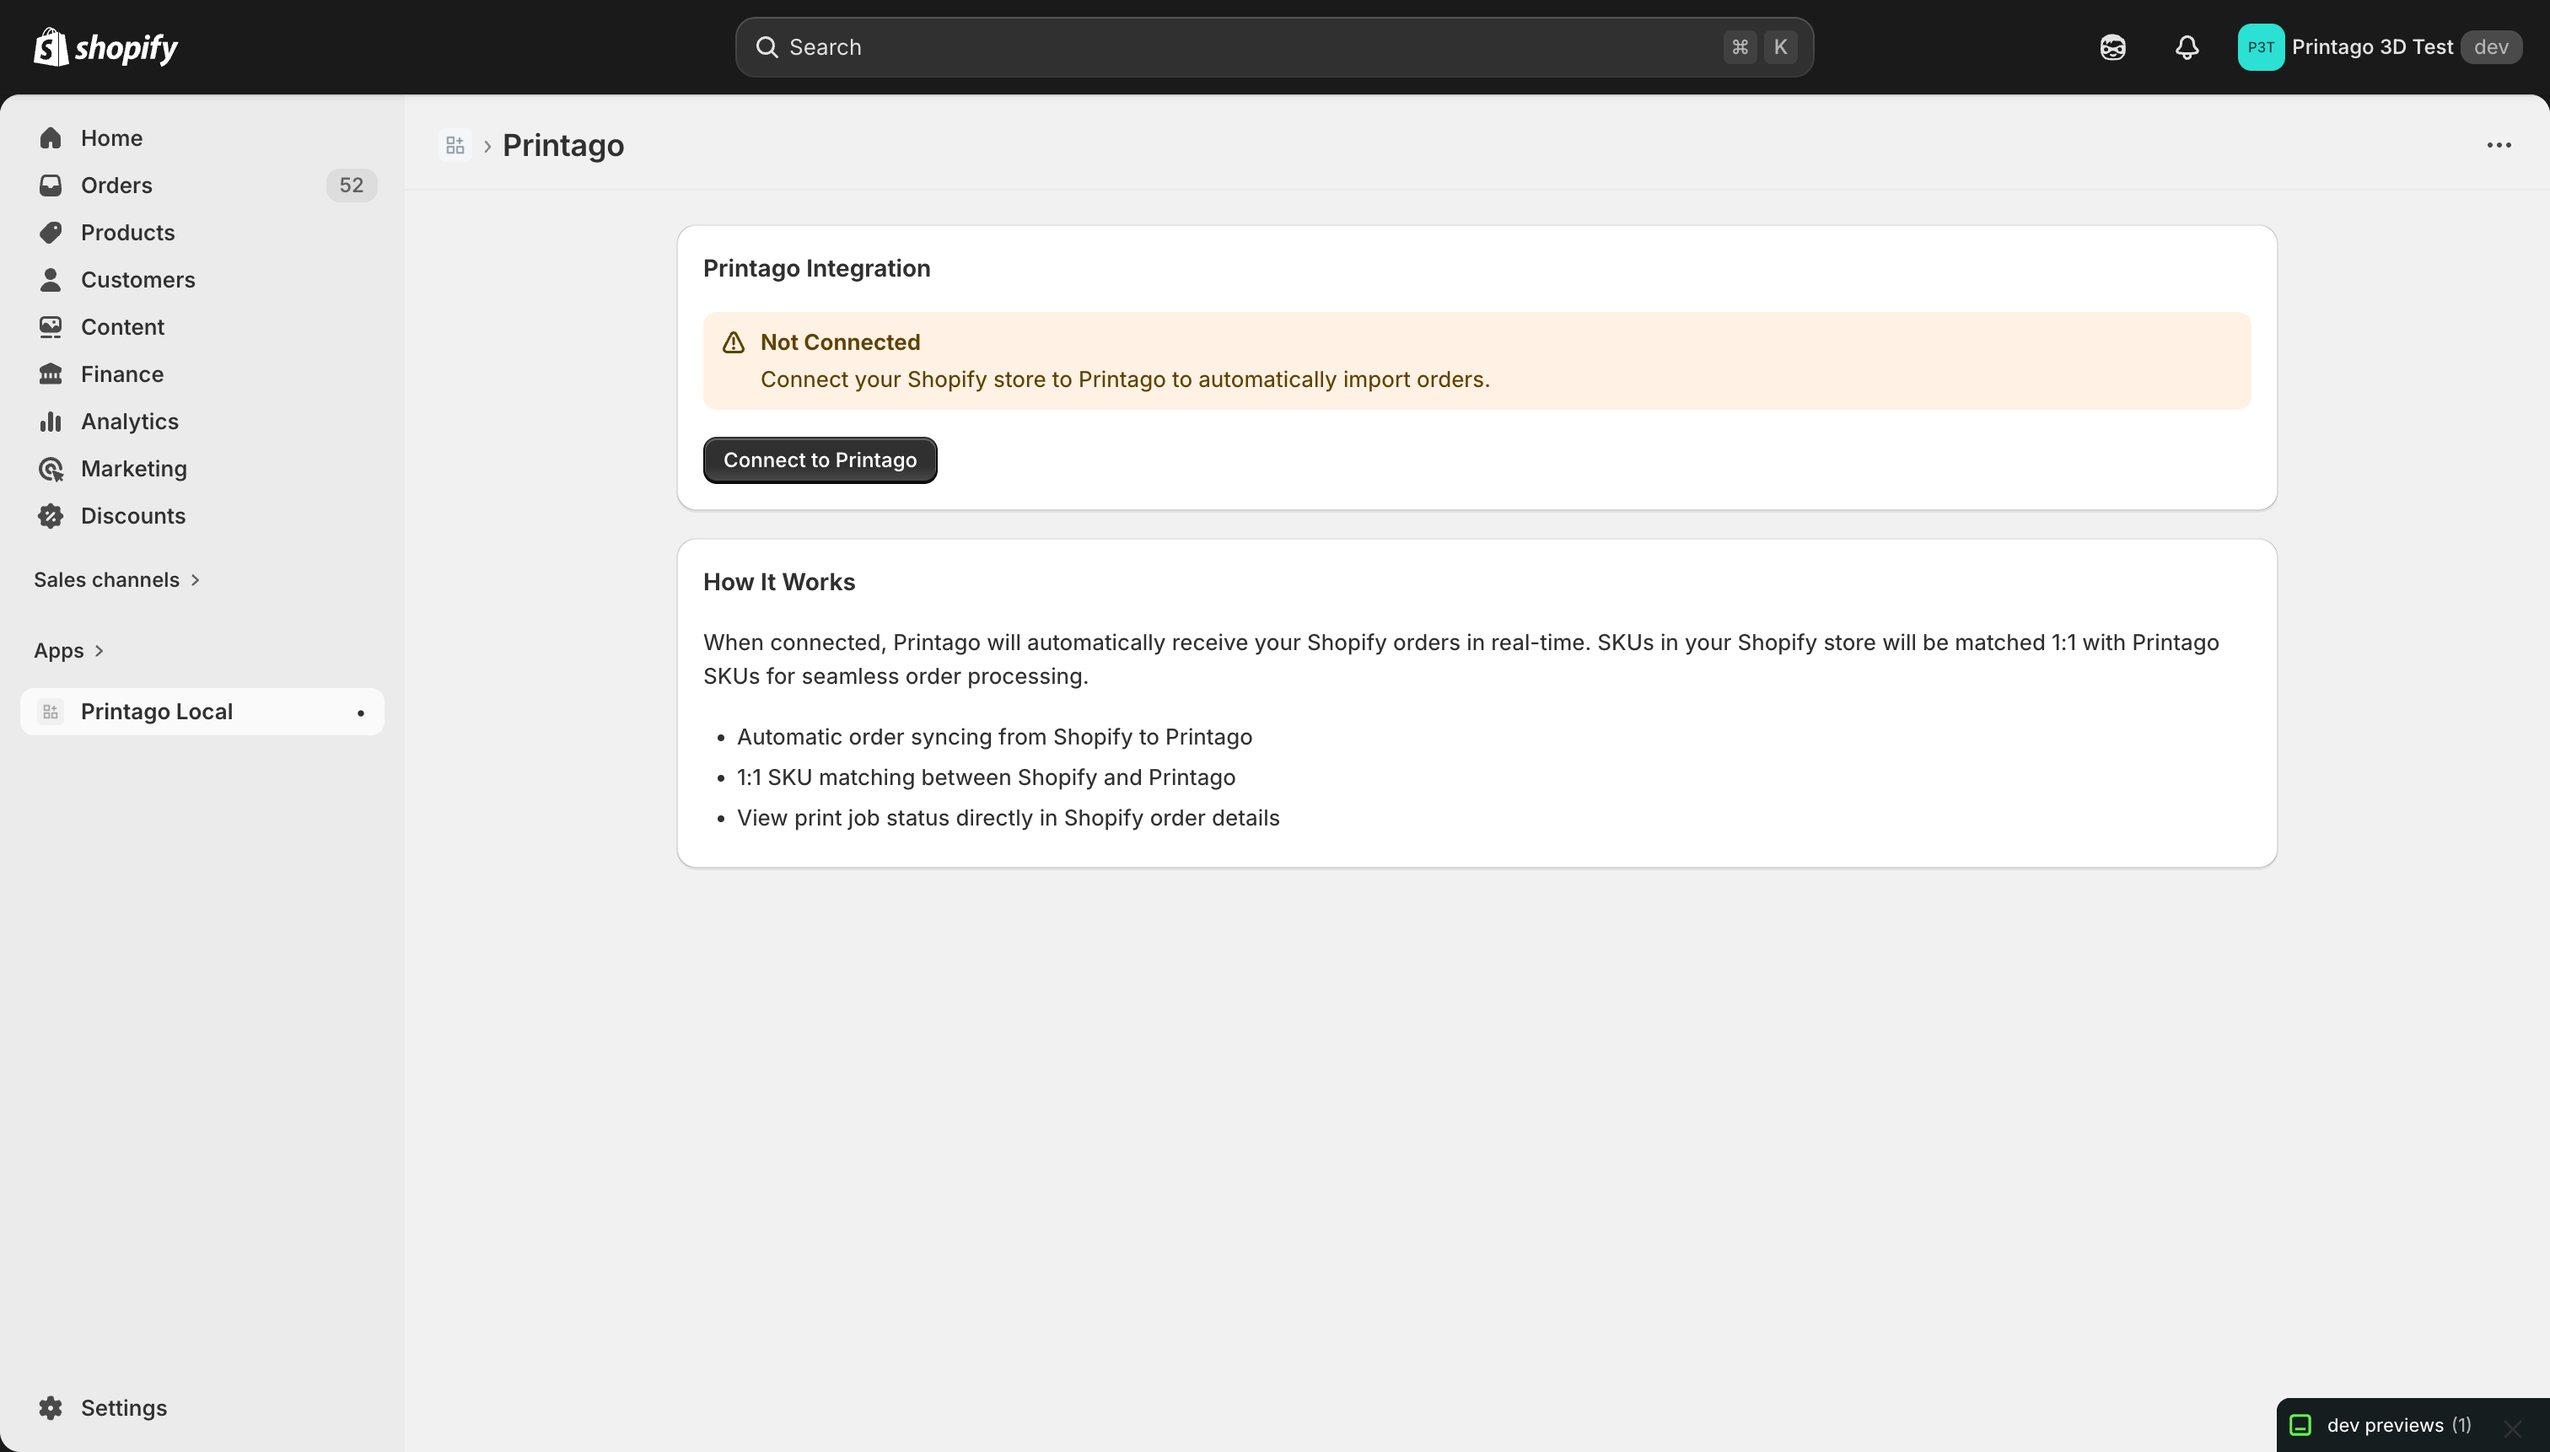
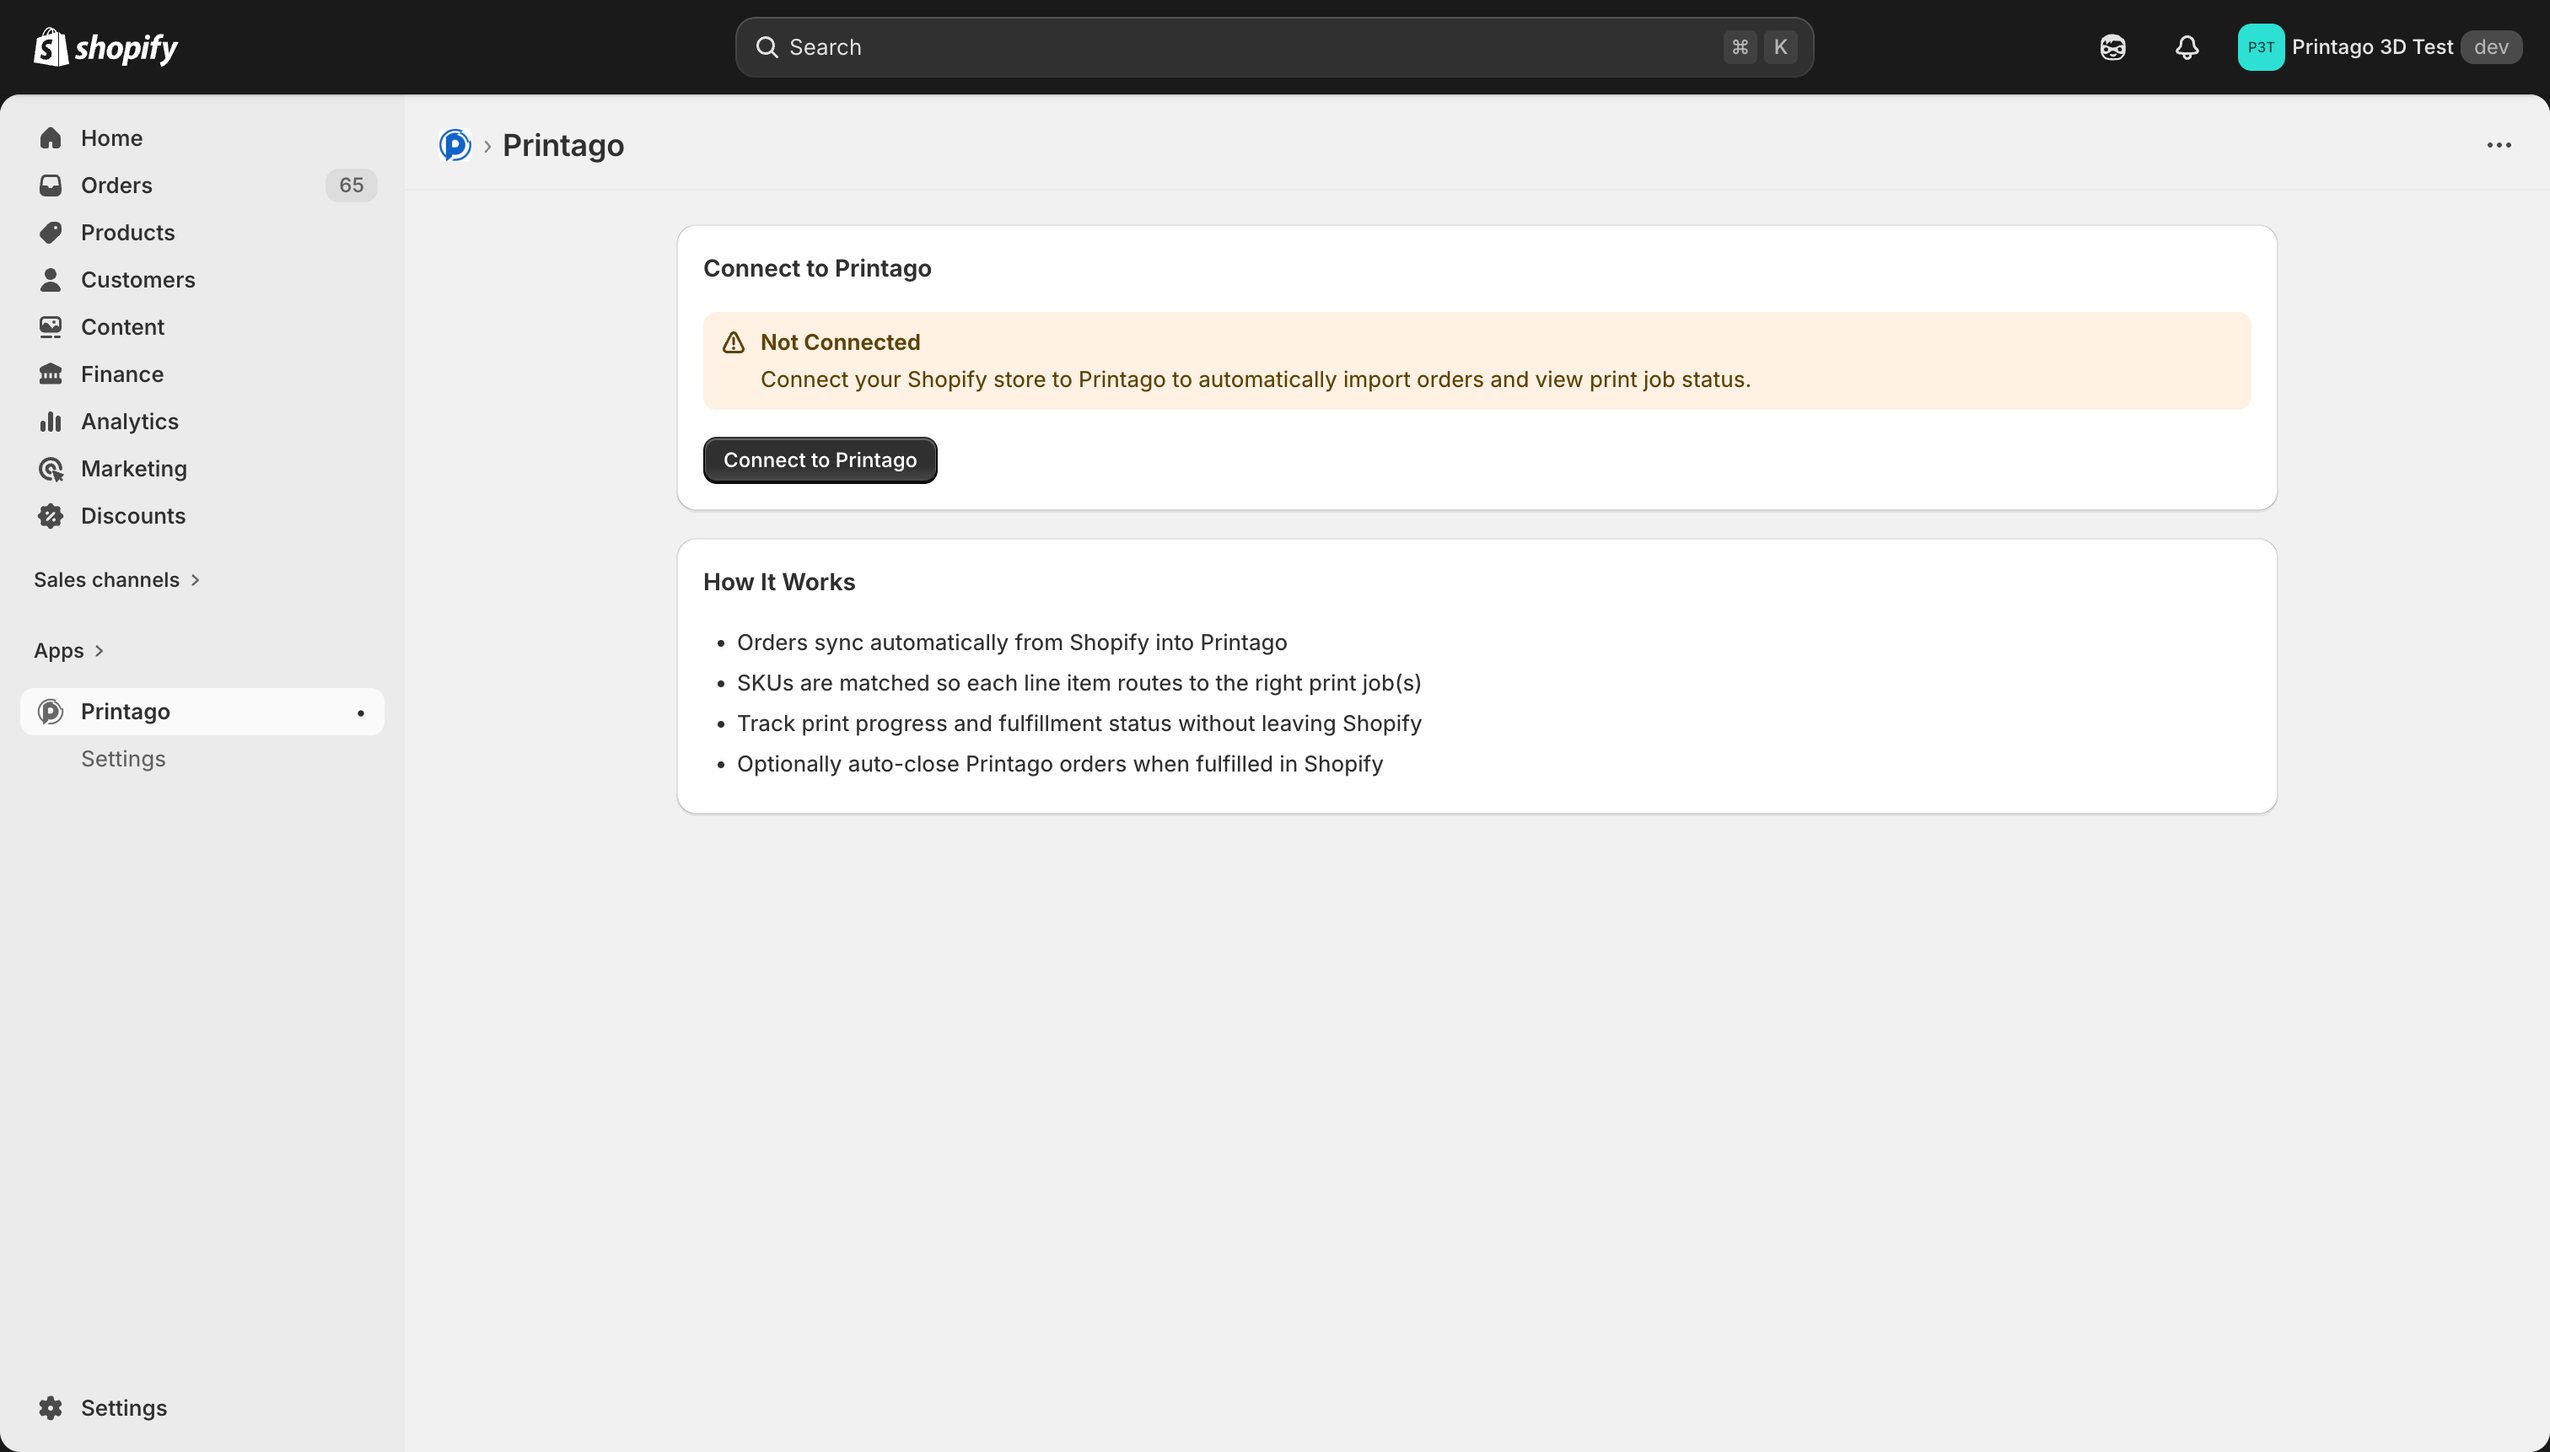
update shopify docs

diff --git a/docs/integrations/shopify.md b/docs/integrations/shopify.md
@@ -10,12 +10,16 @@ Integrations require a Commercial subscription. [Learn more](/docs/settings/subs
 
 ## Key Concepts
 
-The **Shopify integration** connects your Shopify storefront directly to Printago's production system so that incoming customer orders automatically generate print jobs. When a customer purchases a product, the integration syncs the order to Printago, matches the Shopify SKU identifier to your Printago SKU definitions, and optionally queues the resulting jobs for production immediately. Printago can also write progress tags back to your Shopify orders so you can track production status from your store's admin panel. This integration closes the loop between e-commerce and manufacturing—instead of manually checking orders and creating print jobs, the entire flow from sale to production is automated. It's especially powerful when combined with SKU Variants, allowing a single Shopify product listing with multiple options (color, size, personalization) to produce the correct parts automatically.
+The **Shopify integration** connects your Shopify storefront directly to Printago's production system so that incoming customer orders automatically generate print jobs. When a customer purchases a product, the integration syncs the order to Printago, matches the Shopify SKU to your Printago SKU definitions, and optionally queues the resulting jobs for production immediately.
+
+The Printago Shopify app runs directly inside your Shopify Admin panel, giving you a **Synced Orders dashboard** to monitor order and job status, a **Settings page** to configure automation behavior, and a **Production Status block** on each order detail page to track print progress — all without leaving Shopify.
 
 ## What You Get
 
 - Real-time order sync from Shopify to Printago
-- Manual backfill sync for historical orders
+- Manual backfill sync for historical orders with date range and fulfillment status filters
+- Synced Orders dashboard with job progress tracking inside Shopify Admin
+- Per-order Production Status block showing print completion
 - Automatic queueing (optional) for new valid order items
 - Progress tags written back to Shopify (optional)
 - Auto-close behavior for synced orders (optional)
@@ -24,118 +28,155 @@ The **Shopify integration** connects your Shopify storefront directly to Printag
 
 - You have access to a Printago account with Commercial features enabled
 - You have admin access to your Shopify store
-- Your Shopify SKUs are mapped to SKUs in Printago (exact SKU match)
+- Your Shopify SKUs are mapped to SKUs in Printago (exact SKU match or suffix match)
 
 ## Connect Shopify to Printago
 
 ### 1. Install the Printago app in Shopify
 
-In your Shopify Admin, install the **Printago** app from the Shopify App Store.
+In your Shopify Admin, install the **Printago** app from the [Shopify App Store](https://apps.shopify.com/printago).
 
-### 2. Connect from Shopify app
+### 2. Connect from the Shopify app
 
-In your Shopify Admin, open the **Printago** app and click **Connect to Printago**.
+Open the **Printago** app in your Shopify Admin. You'll see a welcome screen with a **Connect to Printago** button. Click it to begin the connection flow.
 
-![Shopify app not connected](../commerce/integrations/images/shopify-app-not-connected.png)
+A popup window will open where you confirm the account binding in Printago:
 
-Then confirm the account binding in Printago:
+![Shopify connect flow confirmation in Printago](../commerce/integrations/images/shopify-connect-flow.png)
 
-![Shopify connect flow confirmation in Printago](../commerce/integrations/images/shopify-printago-connect-flow.png)
+Select your Printago organization and click **Connect**. Once confirmed, the app stores your credentials and redirects you to the Synced Orders dashboard.
 
 ### 3. Verify connected status
 
-After connecting, you should see a connected state in both places:
+After connecting, the app automatically redirects to the **Orders** page. You can verify your connection details in **Settings**, which shows your Printago store name, store ID, and connection date.
 
-- Shopify app:
+## Synced Orders Dashboard
 
-![Shopify app connected](../commerce/integrations/images/shopify-app-connected.png)
+The **Orders** page is the main interface of the Printago Shopify app. It shows all orders synced between Shopify and Printago along with their print job status.
 
-- Printago > Shopify > **Connection** tab:
+![Synced Orders dashboard in Shopify Admin](../commerce/integrations/images/shopify-app-store-orders.png)
 
-![Printago Shopify connection tab](../commerce/integrations/images/shopify-printago-connection-tab.png)
+### Dashboard Features
 
-## Sync Orders
+- **Order count and job summary** at the top, including total orders and print jobs
+- **Date range filter** — view orders synced in the last 7, 14, 30, 60, or 90 days
+- **Hide completed** checkbox to focus on in-progress work
+- **Sortable columns** — Order number, Status, Created date, Synced date
 
-### Manual sync (recommended first sync)
+### Order Status
 
-1. In Printago, go to **Shopify > Connection**.
-2. Click **Sync orders**.
-3. Choose:
-   - **How many days back** (for example, 30 days)
-   - Fulfillment states to include (Not fulfilled / Partially fulfilled / Fully fulfilled)
-4. Click **Sync orders**.
+Each order row shows a progress bar and job count (e.g., "1/1 jobs") indicating how many print jobs are complete. Orders with no matching SKUs show "No jobs".
 
-![Shopify sync modal in Printago](../commerce/integrations/images/shopify-printago-sync-modal.png)
+### Actions
 
-### Real-time sync
+- **Print** — queue an individual order's items to the print queue
+- **View** — open the order in Printago for full details
+- **Print All Orders** — bulk-queue all visible orders to print
+- **Manually Sync Orders** — open a sync modal to import historical orders
 
-After connection, new Shopify orders sync automatically via webhooks (no manual action needed).
+### Manual Sync
 
-## Integration Settings
+Click **Manually Sync Orders** to import existing orders. You can configure:
+- **How many days back** — 7, 14, 30, 60, or 90 days
+- **Fulfillment status filter** — Unfulfilled, Partially fulfilled, Fully fulfilled
 
-In Printago, open **Shopify > Settings**:
+This is useful for your first sync or to catch up on orders placed before the integration was connected.
 
-![Shopify integration settings in Printago](../commerce/integrations/images/shopify-printago-settings-tab.png)
+### Real-time Sync
 
-- **Automatically print orders**: Adds valid new order items to the print queue automatically.
-- **Write progress tags**: Writes progress tags back to Shopify (`printago:in-progress` and `printago:printed`).
-- **Auto-close orders synced from Shopify**:
-  - When fully fulfilled
-  - When any fulfillment occurs
-  - Never
+After connection, new Shopify orders sync automatically via webhooks with no manual action needed.
 
-## Shopify Order Progress UI
+## Order Production Status
 
-When you open an order in Shopify, the Printago app block shows a **Printago Production Status** card.
+When you open an individual order in Shopify, the Printago app block displays a **Printago Production Status** card showing print completion progress for that order.
 
-![Shopify order page with Printago production status block](../commerce/integrations/images/shopify-order-block-progress.png)
+![Order detail page with Printago Production Status block](../commerce/integrations/images/shopify-app-store-job-status.png)
 
-If you click the progress badge (for example, `0% complete`), it opens Printago Queue filtered to that specific Shopify order.
+The status block shows:
+- **Completion percentage** (e.g., "100% complete")
+- **Job count** (e.g., "1 completed")
 
-![Printago queue filtered to a specific order](../commerce/integrations/images/printago-queue-filtered-by-order.png)
+Clicking the progress badge opens Printago's Queue filtered to that specific order.
 
-You can also see the written progress tags directly in the Shopify orders list.
+## Settings
 
-![Shopify orders list showing Printago progress tags](../commerce/integrations/images/shopify-orders-tags-row.png)
+Open **Settings** from the Printago app navigation to configure integration behavior.
+
+![Shopify app settings page](../commerce/integrations/images/shopify-app-settings.png)
+
+### Automatically Print Orders
+
+When enabled, new orders from Shopify are automatically added to the print queue. Order items with SKU errors are skipped.
+
+### Write Progress Tags
+
+When enabled, Printago automatically applies order status tags in Shopify to reflect production progress (e.g., `printago:in-progress`, `printago:printed`). These tags are visible in your Shopify orders list.
+
+![Shopify orders list with Printago tags](../commerce/integrations/images/shopify-orders-tags-row.png)
+
+### Auto-close Orders
+
+Controls when Printago orders are automatically closed based on Shopify fulfillment status:
+- **Never** — do not auto-close
+- **When fully fulfilled** — close when all items in the Shopify order are fulfilled
+- **When partially fulfilled** — close when any items are fulfilled
+
+### Connection Info
+
+The Settings page also shows your connection details:
+- Printago store name
+- Store ID
+- Connected date
+
+### Disconnect
+
+Click **Disconnect from Printago** in the danger zone at the bottom of Settings to remove the integration. This stops future syncs but does not remove historical orders already imported into Printago.
 
 ## SKU Variant Support
 
-For **SKU Variants**, Shopify integration supports **SKU suffix mapping only**.
+The Shopify integration supports **SKU suffix mapping** for variant resolution:
 
 - Each variant option/value combination in Printago must have a **SKU suffix** defined
 - Each Shopify variant must have a **SKU value** defined in Shopify
-- If either side is missing (no suffix in Printago or no variant SKU in Shopify), mapping will fail
+- Printago automatically resolves compound SKUs by matching the base SKU and suffix options
 
-## Disconnect
+**Example:**
+- Printago SKU: `WIDGET-001`
+- Color option: Red (suffix: `-RED`), Blue (suffix: `-BLUE`)
+- Size option: Small (suffix: `-SM`), Large (suffix: `-LG`)
+- Shopify variant SKU: `WIDGET-001-RED-LG` resolves to WIDGET-001 with Color=Red, Size=Large
 
-You can disconnect at any time:
-
-- In Shopify app: click **Disconnect**
-- In Printago **Shopify > Connection**: click **Disconnect**
-
-Disconnecting stops future syncs but does not remove historical orders already imported.
+If either side is missing (no suffix in Printago or no variant SKU in Shopify), mapping will fail and the order item will show an error.
 
 ## Troubleshooting
 
 ### Store shows as not connected
 
-- Re-run connect flow from Shopify app (**Connect to Printago**)
+- Re-run the connect flow from the Shopify app
 - Confirm you are logged into the intended Printago account
-- Make sure you approved the correct Shopify store during binding
+- Check Settings to verify connection status
 
 ### Orders are not syncing
 
-- Check connection status in Printago **Shopify > Connection**
+- Check connection status in Settings
 - Run a manual sync with a wider date range
-- Verify orders match selected fulfillment states in the sync modal
+- Verify orders match the selected fulfillment states
 
-### Items are red / not printable
+### Items show errors or "No jobs"
 
 - SKU mismatch between Shopify and Printago
-- Create or correct SKU mappings in Printago, then re-sync or refresh orders
+- Create or correct SKU mappings in Printago, then re-sync
+- Check that variant SKU suffixes are defined on both sides
+
+### Print action fails
+
+- Open the error details shown in the app banner
+- Click "Fix in Printago" to resolve SKU or configuration issues
+- Re-try printing after fixing errors
 
 ## Need Help?
 
 - [Support](/docs/support)
 - [SKU Management](/docs/commerce/sku-management)
+- [SKU Variants](/docs/commerce/sku-variants)
 - [Orders](/docs/commerce/orders)
